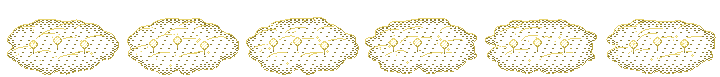
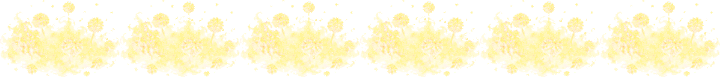
PER-5: esporos com loop novo, entrada e saída derivadas e ícone novo
A Nuvem de Esporos passa a ser desenhada a partir do cartão parado
(cogumelos-bola dourados), e não mais da nuvem cinza oca antiga.
O script importar_nuvem.py gera o loop de 6 quadros, deriva entrada
e saída do loop (dissolve em Bayer) e recorta o ícone 32x32 do pod
central, com a versão 16x16 reamostrada. Nomes, tamanhos e fps são
os de indice_nuvens.json, então o índice não muda.

Refs #509

diff --git a/jogos/hordas/fonte_arte/armas_anim/importar_nuvem.py b/jogos/hordas/fonte_arte/armas_anim/importar_nuvem.py
@@ -1,0 +1,131 @@
+"""Esporos da carta Nuvem de Esporos (`nuvem_espora`): loop novo, entrada e saída derivadas, ícone novo.
+
+Fonte: jogos/hordas/projeto/assets/v2/armas/nuvem_esporos.png (cartão parado, 120x77, cogumelos-bola
+dourados e névoa âmbar). Daí saem, em jogos/hordas/projeto/assets/v2/:
+  armas_anim/nuvem_esporos_loop.png     6 quadros de 120x77, 6 fps, emenda no primeiro (720x77)
+  armas_anim/nuvem_esporos_entrada.png  3 quadros, a nuvem se forma a partir do quadro 1 do loop (360x77)
+  armas_anim/nuvem_esporos_saida.png    3 quadros, a nuvem se desfaz a partir do último quadro do loop (360x77)
+  icones_cartas/nuvem_espora.png        ícone 32x32 (recorte 1:1 do pod central, sem reescala)
+  icones_cartas/16/nuvem_espora.png     ícone 16x16 (reamostrado do de 32 px)
+
+Nomes, tamanhos, fps e âncora são os de indice_nuvens.json (nuvem_esporos), então o índice não muda.
+
+Como o loop é feito (tudo fechado em 6 quadros, para emendar sem salto):
+  - contorno da névoa: a cada quadro, 1/6 dos pixels da borda some (padrão diagonal que gira com o quadro),
+    então a borda tremula sem mover a forma;
+  - grãos dourados: 8 grãos percorrem a elipse em volta do centro, com um balanço de 0,35 rad (o ângulo
+    volta ao início no fim do ciclo).
+Entrada e saída são o quadro do loop com dissolve em blocos 2x2 (matriz de Bayer 4x4), igual ao esmaecer das
+nuvens de gerar_nuvens.py.
+
+Sem ChatGPT: o plano previa a folha do loop gerada no ChatGPT (A01). Aqui o loop sai do próprio cartão, por
+decisão do PR PER-5 (registrada no corpo do PR); se uma folha gerada chegar, basta trocar FONTE_LOOP por ela.
+
+Rodar: python -I importar_nuvem.py  (sem semente aleatória, sem rede; rodar de novo dá os mesmos arquivos)
+"""
+import math
+import os
+
+import numpy as np
+from PIL import Image
+
+AQUI = os.path.dirname(os.path.abspath(__file__))
+RAIZ = os.path.normpath(os.path.join(AQUI, "..", "..", "..", ".."))
+PROJETO = os.path.join(RAIZ, "jogos", "hordas", "projeto")
+ASSETS = os.path.join(PROJETO, "assets", "v2")
+FONTE_LOOP = os.path.join(ASSETS, "armas", "nuvem_esporos.png")
+
+QUADRO = (120, 77)
+ANCORA = (60, 38)
+N_LOOP = 6
+N_BORDA = 6  # a borda some em um sexto por quadro
+GRAOS = 8
+ELIPSE = (46.0, 20.0)  # raio horizontal e vertical da órbita dos grãos
+BALANCO = 0.35  # rad de balanço do grão em volta da órbita (fechado no ciclo)
+COR_GRAO = (255, 240, 170, 255)
+COR_GRAO_CLARO = (255, 252, 214, 255)
+ICONE_CAIXA = (56, 29, 88, 61)  # recorte 32x32 centrado no pod central da carta (1:1, sem reescala)
+
+BAYER = np.array([[0, 8, 2, 10], [12, 4, 14, 6], [3, 11, 1, 9], [15, 7, 13, 5]], dtype=np.float32) / 16.0
+
+
+def carregar_cartao():
+    img = Image.open(FONTE_LOOP).convert("RGBA")
+    if img.size != QUADRO:
+        raise SystemExit("cartão %s com tamanho %s, esperava %s" % (FONTE_LOOP, img.size, QUADRO))
+    return np.array(img, dtype=np.uint8)
+
+
+def borda_da_nuvem(a):
+    """Pixels com alfa > 0 que têm vizinho de alfa 0 (4-vizinhança)."""
+    m = a[:, :, 3] > 0
+    viz = np.zeros_like(m)
+    viz[1:, :] |= ~m[:-1, :]
+    viz[:-1, :] |= ~m[1:, :]
+    viz[:, 1:] |= ~m[:, :-1]
+    viz[:, :-1] |= ~m[:, 1:]
+    return m & viz
+
+
+def quadro_do_loop(base, k):
+    f = base.copy()
+    h, w = f.shape[:2]
+    yy, xx = np.mgrid[0:h, 0:w]
+    # 1) borda tremula: no quadro k somem os pixels com (5x + 3y) % 6 == k
+    borda = borda_da_nuvem(base)
+    some = borda & (((5 * xx + 3 * yy) % N_BORDA) == k)
+    f[some, 3] = 0
+    # 2) grãos dourados orbitando, com balanço fechado no ciclo
+    cx, cy = ANCORA
+    for i in range(GRAOS):
+        theta0 = math.tau * i / GRAOS
+        ang = theta0 + BALANCO * math.sin(math.tau * k / N_LOOP + i)
+        gx = cx + ELIPSE[0] * math.cos(ang)
+        gy = cy + ELIPSE[1] * math.sin(ang)
+        x, y = int(round(gx)), int(round(gy))
+        for dx, dy in ((0, 0), (1, 0), (0, 1), (1, 1)):
+            if 0 <= x + dx < w and 0 <= y + dy < h:
+                f[y + dy, x + dx] = COR_GRAO
+        if 0 <= x < w and 0 <= y < h:
+            f[y, x] = COR_GRAO_CLARO
+    return f
+
+
+def dissolve(f, limiar):
+    """Mantém os blocos 2x2 com valor de Bayer menor que `limiar` (0 a 1); o resto fica transparente."""
+    h, w = f.shape[:2]
+    yy, xx = np.mgrid[0:h, 0:w]
+    bay = BAYER[(yy // 2) % 4, (xx // 2) % 4]
+    g = f.copy()
+    g[bay >= limiar, 3] = 0
+    return g
+
+
+def salvar_tira(quadros, caminho):
+    tira = np.concatenate(quadros, axis=1)
+    Image.fromarray(tira, "RGBA").save(caminho)
+
+
+def main():
+    base = carregar_cartao()
+    loop = [quadro_do_loop(base, k) for k in range(N_LOOP)]
+    # entrada: a nuvem se forma a partir do quadro 1 do loop, em três estágios de dissolve
+    entrada = [dissolve(loop[0], lim) for lim in (1 / 3, 2 / 3, 1.0)]
+    # saída: desfaz o último quadro do loop, em três estágios de dissolve decrescentes
+    saida = [dissolve(loop[N_LOOP - 1], lim) for lim in (2 / 3, 1 / 3, 1 / 6)]
+
+    pasta_anim = os.path.join(ASSETS, "armas_anim")
+    salvar_tira(loop, os.path.join(pasta_anim, "nuvem_esporos_loop.png"))
+    salvar_tira(entrada, os.path.join(pasta_anim, "nuvem_esporos_entrada.png"))
+    salvar_tira(saida, os.path.join(pasta_anim, "nuvem_esporos_saida.png"))
+
+    # ícone: recorte 1:1 do pod central (sem reescala, o pixel fica nítido)
+    icone = Image.fromarray(base, "RGBA").crop(ICONE_CAIXA)
+    pasta_icone = os.path.join(ASSETS, "icones_cartas")
+    icone.save(os.path.join(pasta_icone, "nuvem_espora.png"))
+    icone.resize((16, 16), Image.NEAREST).save(os.path.join(pasta_icone, "16", "nuvem_espora.png"))
+    print("nuvem_esporos: loop 6q, entrada 3q, saida 3q, icone 32 e 16 px")
+
+
+if __name__ == "__main__":
+    main()
